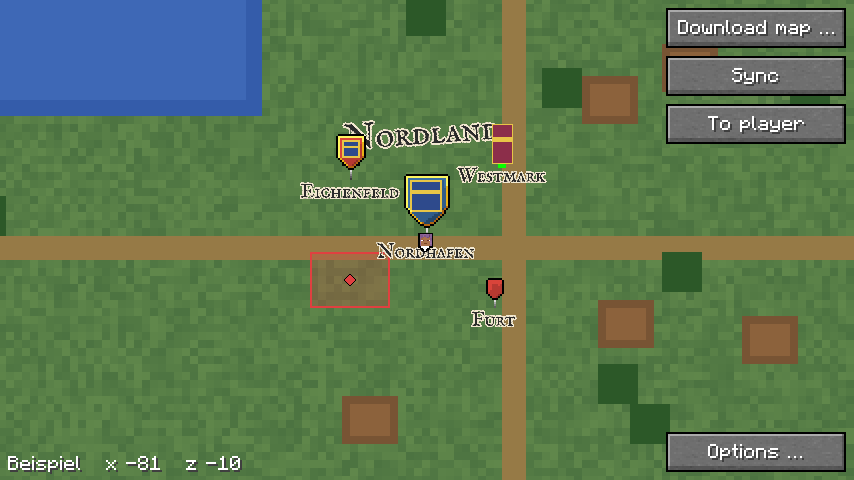
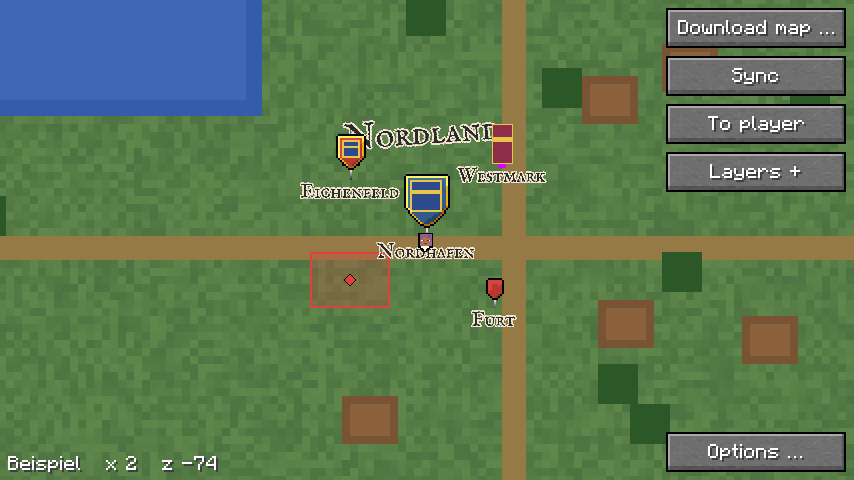
Doku, Bilder und 0.2.17 zur Liste der Ebenen (mod#76)

Changed region(s): [[0.7611, 0.3125, 1.0, 0.4062], [0.1522, 0.9375, 0.3044, 1.0]]

diff --git a/src/gametest/java/com/nekyia/heroicmap/Bilder.java b/src/gametest/java/com/nekyia/heroicmap/Bilder.java
@@ -500,7 +500,8 @@ public final class Bilder implements FabricClientGameTest {
         context.runOnClient(mc -> {
             Ebenen.INSTANZ.empfange(JsonParser.parseString("""
                     {"v":1,"typ":"ebenen","jetzt":1,"ebenen":[{"id":"test:formen","name":{"de":"Formen","en":"Shapes"},
-                      "visible":true,"order":1,"version":"1"}]}""").getAsJsonObject());
+                      "visible":true,"order":1,"version":"1"},{"id":"test:grenzen","name":{"de":"Grenzen","en":"Borders"},
+                      "visible":false,"order":2,"version":"1"}]}""").getAsJsonObject());
             Ebenen.Teil t = Ebenen.Teil.lies(FORMEN);
             if (t == null || t.formen().size() != 5) {
                 throw new AssertionError("Teil der Formen nicht lesbar");
@@ -537,6 +538,14 @@ public final class Bilder implements FabricClientGameTest {
         context.runOnClient(mc -> mc.gui.setScreen(new Karte(Satz.lies(baum))));
         context.waitTicks(40);
         Path karte = context.takeScreenshot(TestScreenshotOptions.of("formen-karte").disableCounterPrefix());
+        // Dieselbe Karte mit offener Liste der Ebenen: „Formen“ an und ganz angeheftet, „Grenzen“ aus (docs/vollbildkarte.md, „Ebenen“).
+        context.runOnClient(mc -> {
+            Kartenlage.ebenenOffen(Downloads.weltOrdner(), true);
+            mc.gui.setScreen(new Karte(Satz.lies(baum)));
+        });
+        context.waitTicks(40);
+        Path liste = context.takeScreenshot(TestScreenshotOptions.of("ebenen-liste").disableCounterPrefix());
+        context.runOnClient(mc -> Kartenlage.ebenenOffen(Downloads.weltOrdner(), false));
         if (!AUSGABE.isEmpty()) {
             BufferedImage beide = new BufferedImage(teile[0].getWidth() + teile[1].getWidth(),
                     Math.max(teile[0].getHeight(), teile[1].getHeight()), BufferedImage.TYPE_INT_RGB);
@@ -545,6 +554,7 @@ public final class Bilder implements FabricClientGameTest {
             try {
                 ImageIO.write(beide, "png", Path.of(AUSGABE, "formen.png").toFile());
                 Files.copy(karte, Path.of(AUSGABE, "formen-karte.png"), StandardCopyOption.REPLACE_EXISTING);
+                Files.copy(liste, Path.of(AUSGABE, "ebenen-liste.png"), StandardCopyOption.REPLACE_EXISTING);
             } catch (IOException e) {
                 throw new UncheckedIOException(e);
             }

diff --git a/docs/entwicklung.md b/docs/entwicklung.md
@@ -50,7 +50,7 @@ Das baut das Jar nach `build/libs/` und lässt die Tests laufen.
 | `AblageTest` | der Ordner der Welt je Wahl und je Dimension, Backends hinter einem Proxy, ein neuer Login ohne wartende `freigabe`n, gleiche Hashes, Umzug ins Leere ohne `overlay/`, die Kartenliste über alle Ablagen, unlesbare Ordner, Abbruch, Symlinks und Junctions, siehe [Download](download.md), „Ablage“ |
 | `KanalTest` | die `anfrage`, `neu` nur, wenn wahr, und `show`, siehe [Download](download.md), „Kanal“ |
 | `AdresseTest` | die Prüfung der Adresse, siehe [Download](download.md), „Sicherheit“ |
-| `KartenblickTest` | wie die Vollbildkarte Kacheln auf den Schirm legt, Zoom über Stufen und Lupe, Schieben, Platzhalter aus gröberen Stufen, siehe [Vollbildkarte](vollbildkarte.md); Lage merken je Dimension und geklemmt stellen, siehe [Vollbildkarte](vollbildkarte.md), „Lage merken“; Marken auf dem Raster der Kacheln und am Rand neben den Knöpfen, siehe [Wegpunkte](wegpunkte.md), „Am Rand“; Chunklinien auf dem Raster bis zum Rand und nicht zu dicht, auch bei GUI-Massstab 1 auf 4K, siehe [Minimap](minimap.md), „Chunklinien“ |
+| `KartenblickTest` | wie die Vollbildkarte Kacheln auf den Schirm legt, Zoom über Stufen und Lupe, Schieben, Platzhalter aus gröberen Stufen, siehe [Vollbildkarte](vollbildkarte.md); Lage merken je Dimension und geklemmt stellen, die offene Liste der Ebenen, siehe [Vollbildkarte](vollbildkarte.md), „Lage merken“; Marken auf dem Raster der Kacheln und am Rand neben den Knöpfen, siehe [Wegpunkte](wegpunkte.md), „Am Rand“; Chunklinien auf dem Raster bis zum Rand und nicht zu dicht, auch bei GUI-Massstab 1 auf 4K, siehe [Minimap](minimap.md), „Chunklinien“ |
 | `TeleportTest` | der Befehl zum Teleportieren und dass es ihn nur mit `execute` und `tp` im Befehlsbaum gibt, siehe [Vollbildkarte](vollbildkarte.md), „Teleportieren“ |
 | `DrehungTest` | wie die Minimap ihr Bild auf den Schirm bringt: Schnitt konvexer Vielecke, Vieleck um den Kreis, Rand mit und ohne Rahmen gedeckt, mit Abstand gegen das Einrasten, Umriss wie auf main, ungedreht auf dem Raster, Fächer, Chunklinien in der Form, siehe [Minimap](minimap.md), „Form“; Blickrichtung oben, Drehung und zurück, Marken auf der Mitte der Bänder und auf ganzen Pixeln, Reichweite √2, Wegpunkt in Blickrichtung, siehe [Minimap](minimap.md), „Drehen“; Formen am Ort der Marken, gedreht und ungedreht, und auf der Karte, siehe [Ebenen](ebenen.md), „Flächen, Kreise und Linien“ |
 | `KachelnTest` | WebP lesen, samt Alpha, die Grösse aus dem Kopf vor dem Dekodieren, genau so gross wie eine Kachel; die Grenzen der Banner prüft `SymboleTest`, siehe [Vollbildkarte](vollbildkarte.md), „Kacheln“; Pixel mit einem Index hinter der Palette durchsichtig, alle anderen wie TwelveMonkeys, siehe [Vollbildkarte](vollbildkarte.md), „Farbindex hinter der Palette“ |
@@ -69,7 +69,7 @@ Das baut das Jar nach `build/libs/` und lässt die Tests laufen.
 | `KachelwerkMessung` | nur mit `-Pkachelwerk=<datei>`: was `Kachelwerk.schreibe` kostet, siehe [Selbst gezeichnete Karte](selbst.md), „Kosten“ |
 | `PyramideTest` | Verkleinern wie die Pyramide des Renderers, siehe [Selbst gezeichnete Karte](selbst.md), „Pyramide“ |
 | `ChunkMalerTest` | dünne Flächen mindestens ein Pixel, der Deckel einer Truhe nach `facing` und Hälfte, siehe [Minimap](minimap.md), „Flächen und Pixel“ und „Blockentities“ |
-| `WegpunkteTest` | Wegpunkte setzen, löschen, anheften, Farben, kaputte Einträge und Dateien; feste ids, Formen aus Wegpunkten, die beim Verschieben mitgehen und beim Löschen schrumpfen; Formen, Rechtecke, Kreise, Nadeln und Banner anheften, je höchstens 64, tote Einträge, Listen für Karte und Minimap; siehe [Wegpunkte](wegpunkte.md) |
+| `WegpunkteTest` | Wegpunkte setzen, löschen, anheften, Farben, kaputte Einträge und Dateien; feste ids, Formen aus Wegpunkten, die beim Verschieben mitgehen und beim Löschen schrumpfen; Formen, Rechtecke, Kreise, Nadeln und Banner anheften, je höchstens 64, eine ganze Ebene anheften und lösen, tote Einträge, Listen für Karte und Minimap; siehe [Wegpunkte](wegpunkte.md) |
 | `LichtTest` | die Lightmap gegen die Werte aus der Doku des Renderers, siehe [Minimap](minimap.md), „Licht“ |
 
 ## Gametests
@@ -90,8 +90,8 @@ Mods laufen deshalb auch hier.
 | Gametest | tut |
 |---|---|
 | `Anmeldung` | die Reihenfolge beim Login: Beim ersten Level gibt es den Spieler noch nicht, wohl aber die Verbindung des Levels, aus der `Downloads.server` liest, siehe [Download](download.md), „Ablage“ |
-| `Bilder` | baut eine Szene und nimmt die Minimap auf, danach das Menü und die Vollbildkarte aus einem Testsatz mit zwei Wegpunkten, das Untermenü „Einstellungen …“, jeden Rahmen eckig und rund und das Menü mit Rahmen, die drehende Minimap, die Szene `formen` mit Flächen, Kreis, Linie und Kartenschrift, die Szene `orte` mit Nadeln, einem Banner und ihren Namen, gleich gross auf zwei Stufen der Vollbildkarte, und „Unicode-Schrift erzwingen“, das die Generation der Kartenschrift hebt, zuletzt die selbst gezeichnete Karte der Szene, gewählt über die Knöpfe, neben der Minimap, die als beschäftigt gilt, auch mit Chunklinien; mit `-Pbilder=<ordner>` landen die Bilder dort, siehe [Minimap](minimap.md), „Bilder“, und [Vollbildkarte](vollbildkarte.md), „Bild“ |
-| `Bedienung` | das Menü und die Vollbildkarte mit echten Eingaben der Maus (`TestInput`): im Menü verschiebt Ziehen mit der linken wie der rechten Taste die ganze Minimap; auf der Karte verschiebt links ziehen den Inhalt, ein Linksklick öffnet kein Menü, ein Rechtsklick öffnet „Hierher teleportieren“, ein Klick darauf teleportiert; Wegpunkte setzen, ziehen und klicken auf Marken am Rand, Doppelklick, Wegpunkt am eigenen Standort, einen Kreis und eine Nadel vom Server und ein altes Rechteck anheften; eine Region und eine Linie aus Wegpunkten bauen, die Region per Doppelklick anheften und löschen; Menü und Untermenü bei 1280 × 720 und GUI-Massstab 3; siehe [Minimap](minimap.md), „Bedienung“, [Vollbildkarte](vollbildkarte.md), „Bedienung“, und [Wegpunkte](wegpunkte.md), „Tests“ |
+| `Bilder` | baut eine Szene und nimmt die Minimap auf, danach das Menü und die Vollbildkarte aus einem Testsatz mit zwei Wegpunkten, das Untermenü „Einstellungen …“, jeden Rahmen eckig und rund und das Menü mit Rahmen, die drehende Minimap, die Szene `formen` mit Flächen, Kreis, Linie und Kartenschrift und der offenen Liste der Ebenen, die Szene `orte` mit Nadeln, einem Banner und ihren Namen, gleich gross auf zwei Stufen der Vollbildkarte, und „Unicode-Schrift erzwingen“, das die Generation der Kartenschrift hebt, zuletzt die selbst gezeichnete Karte der Szene, gewählt über die Knöpfe, neben der Minimap, die als beschäftigt gilt, auch mit Chunklinien; mit `-Pbilder=<ordner>` landen die Bilder dort, siehe [Minimap](minimap.md), „Bilder“, und [Vollbildkarte](vollbildkarte.md), „Bild“ |
+| `Bedienung` | das Menü und die Vollbildkarte mit echten Eingaben der Maus (`TestInput`): im Menü verschiebt Ziehen mit der linken wie der rechten Taste die ganze Minimap; auf der Karte verschiebt links ziehen den Inhalt, ein Linksklick öffnet kein Menü, ein Rechtsklick öffnet „Hierher teleportieren“, ein Klick darauf teleportiert; Wegpunkte setzen, ziehen und klicken auf Marken am Rand, Doppelklick, Wegpunkt am eigenen Standort, einen Kreis und eine Nadel vom Server und ein altes Rechteck anheften; eine Region und eine Linie aus Wegpunkten bauen, die Region per Doppelklick anheften und löschen; die Liste der Ebenen aufklappen, eine Ebene aus- und anschalten, per Doppelklick ganz anheften und lösen, zuklappen; Menü und Untermenü bei 1280 × 720 und GUI-Massstab 3; siehe [Minimap](minimap.md), „Bedienung“, [Vollbildkarte](vollbildkarte.md), „Bedienung“, und [Wegpunkte](wegpunkte.md), „Tests“ |
 | `Messung` | nur mit `-Pmessung=<datei>`: Zeit je Chunk und Frametime mit und ohne Minimap, siehe [Minimap](minimap.md), „Kosten“ |
 | `Server` | nur mit `-Pserver=<adresse>`: von Ende zu Ende gegen einen echten Paper-Server mit dem Plugin, Angebot, voller Download des kleinsten Massstabs des ersten Baums, jeder Dialog mit Ja, die Vollbildkarte als Bild `server-karte`; siehe unten |
 | `Uebernahme` | nur mit `-Puebernahme=<datei>`: was eine Kachel der Vollbildkarte den Render-Thread kostet, siehe [Vollbildkarte](vollbildkarte.md), „Kacheln“ |

diff --git a/docs/vollbildkarte.md b/docs/vollbildkarte.md
@@ -1,6 +1,6 @@
 ---
 title: Vollbildkarte
-description: Die Karte über den ganzen Schirm aus den geladenen Kacheln, mit Bedienung samt Menü nach Rechtsklick, welchem Satz sie zeigt, Stufen und Lupe, wie Kacheln gelesen und behalten werden, Spieler und Koordinaten, dem Bild aus dem Gametest und was fehlt.
+description: Die Karte über den ganzen Schirm aus den geladenen Kacheln, mit Bedienung samt Menü nach Rechtsklick, Liste der Ebenen mit Anheften der ganzen Ebene, welchem Satz sie zeigt, Stufen und Lupe, wie Kacheln gelesen und behalten werden, Spieler und Koordinaten, dem Bild aus dem Gametest und was fehlt.
 code:
   - src/main/java/com/nekyia/heroicmap/Karte.java
   - src/main/java/com/nekyia/heroicmap/Kartenblick.java
@@ -9,6 +9,7 @@ code:
   - src/main/java/com/nekyia/heroicmap/webp
   - src/main/java/com/nekyia/heroicmap/Satz.java
   - src/main/java/com/nekyia/heroicmap/Auswahl.java
+  - src/main/java/com/nekyia/heroicmap/EbenenMenue.java
   - src/main/java/com/nekyia/heroicmap/Teleport.java
   - src/test/java/com/nekyia/heroicmap/TeleportTest.java
   - src/test/java/com/nekyia/heroicmap/KartenblickTest.java
@@ -41,6 +42,8 @@ sagt sie das und zeigt nichts.
 | Knopf „Karte laden …“ | zeigt die Karten des Servers, je Baum der Name und darunter ein Knopf je Massstab mit seiner Grösse (`Auswahl`), darüber die Wahl „Selbst“, siehe [Selbst gezeichnete Karte](selbst.md); die Knöpfe teilen sich die Breite des Schirms, höchstens 90 Einheiten je Knopf, so passen sie auch bei grossem GUI-Massstab; den Massstab, den der Spieler schon ganz hat (`Downloads.vollstaendig`: ein vollständiger Satz, und das Plugin misst den Abgleich an demselben Massstab), zeigt der Knopf als „Abgleich“ und gleicht ab wie der Knopf „Abgleich“, nach einer Ablehnung mit `wieder` bis dahin aus; ein Klick fragt wie `/hmap laden` erst im Dialog nach |
 | Knopf „Abgleich“ | fragt einen Abgleich des gezeigten Satzes an, wie `/hmap abgleich`; nur mit einem Satz vom Server, nicht auf der selbst gezeichneten Karte. Lehnt der Server mit `wieder` ab, ist der Knopf bis dahin aus und nennt die Uhrzeit |
 | Knopf „Zum Spieler“ | legt den eigenen Spieler in die Mitte, für den Fall, dass man sich verirrt hat, wie auf der Webkarte; Stufe und Lupe bleiben (mod#75) |
+| Knopf „Ebenen +“ unter „Zum Spieler“ | klappt die Liste der Ebenen auf, „Ebenen -“ wieder zu; nur, wenn der Server Ebenen schickt, siehe „Ebenen“ (mod#76) |
+| Klick, Doppelklick auf einen Schalter der Liste | schaltet die Ebene an oder aus; ein Doppelklick lässt sie, wie sie war, und heftet alles von ihr an oder löst es, siehe „Ebenen“ |
 | Knopf „Optionen …“ unten rechts | öffnet das Menü von `/hmap`, siehe [Minimap](minimap.md), „Bedienung“; „Fertig“ und `Esc` führen von dort zurück auf die Karte, an dieselbe Stelle (mod#75) |
 | `Esc` | bricht zuerst eine Form ab, die der Spieler aus Wegpunkten baut, sonst schliesst es die Karte |
 
@@ -61,7 +64,9 @@ Server, Welt und Dimension, so will es der User (mod#75); vorher begann die
 Karte jedes Mal beim Spieler, und man musste wieder herauszoomen.
 
 - **Gemerkt** beim Schliessen und vor jedem Untermenü (`Karte.removed`): die
-  Mitte in Blöcken, die Stufe und die Lupe (`Kartenlage`).
+  Mitte in Blöcken, die Stufe und die Lupe (`Kartenlage`). Ob die Liste der
+  Ebenen offen ist, merkt sie gleich beim Klick, für alle Dimensionen, siehe
+  „Ebenen“.
 - **Je Welt** in `karte.properties` im Ordner der Welt, neben
   `wegpunkte.json`, siehe [Download](download.md), „Ablage“; die Schlüssel
   beginnen mit der Dimension des Satzes, etwa `minecraft:overworld.zoom`.
@@ -73,7 +78,47 @@ Karte jedes Mal beim Spieler, und man musste wieder herauszoomen.
   (`Kartenblick.stelle`). Fehlt die Datei oder ist sie unlesbar, liegt der
   Spieler in der Mitte.
 - **Getestet** im Gametest `Bedienung`: eine Stufe gröber, schliessen und
-  wieder öffnen, Mitte, Stufe und Lupe wie vorher; dazu `KartenblickTest`.
+  wieder öffnen, Mitte, Stufe und Lupe wie vorher; dazu `KartenblickTest`
+  mit `listeDerEbenenBleibtOffen`.
+
+### Ebenen
+
+Auf der Vollbildkarte ein Schalter je Ebene, wie „Ebenen“ auf der
+Webkarte, so will es der User (mod#76). Ein Doppelklick heftet die ganze
+Ebene an.
+
+![Vollbildkarte mit offener Liste der Ebenen: „Formen“ an und ganz angeheftet, mit dem bunten Punkt, „Grenzen“ aus; Szene `formen` des Gametests](bilder/ebenen-liste.png)
+
+- **Knopf „Ebenen +“** unter „Zum Spieler“, nur, wenn der Server Ebenen
+  schickt (`Karte.ebenen`). Er klappt die Liste auf, „Ebenen -“ klappt sie
+  zu. Beim ersten Öffnen ist sie zu; offen oder zu merkt sich die Karte in
+  `karte.properties` unter `ebenen`, siehe „Lage merken“
+  (`Kartenlage.ebenenOffen`).
+- **Liste:** je Ebene ein Schalter mit ihrem Namen in der Sprache des
+  Spiels und „An“ oder „Aus“, die oberste zuerst, wie im Untermenü „Ebenen
+  …“, siehe [Ebenen](ebenen.md), „Umschalten“; dieselbe Wahl. Die Liste
+  reicht bis über „Optionen …“; passen nicht alle, führt der letzte Knopf
+  „Weitere …“ zum Untermenü. Kommen andere Ebenen, während die Karte offen
+  ist, baut sie die Liste neu (`Karte.tick`).
+- **Klick** auf einen Schalter schaltet die Ebene an oder aus.
+- **Doppelklick:** Der erste Klick schaltet um, der zweite zurück; so
+  bleibt die Ebene, wie sie war. Dazu heftet der zweite alles von ihr an,
+  was sich anheften lässt, Flächen, Kreise, Nadeln und Banner mit `id`,
+  siehe [Wegpunkte](wegpunkte.md), „Anheften“; ist schon alles
+  angeheftet, löst er alles (`Wegpunkte.alleUmschalten`).
+- **Grenzen:** Die 64 Flächen und Kreise und die 64 Nadeln und Banner
+  gelten weiter. Was nicht mehr passt, bleibt los, und unten links steht
+  „3 nicht angeheftet: höchstens 64 Regionen und 64 Nadeln und Banner“.
+  Dann ist die Ebene nicht ganz angeheftet, und ein weiterer Doppelklick
+  löst nichts, sondern heftet wieder an, was passt. Lösen geht dann je
+  Objekt.
+- **Bunter Punkt** links am Schalter, wenn alles Anheftbare der Ebene
+  angeheftet ist, in der Farbe des Rings angehefteter Marken
+  (`Karte.BUNT_MS`); eine Ebene ohne etwas mit `id` bekommt keinen
+  (`Wegpunkte.ganzAngeheftet`). Neu gerechnet nur, wenn sich Ebenen oder
+  Wegpunkte ändern (`Ebenen.stand`, `Wegpunkte.stand`).
+- **Über einem Knopf** geht keine Tafel auf; die Knöpfe gehen der Karte
+  darunter vor.
 
 ### Teleportieren
 

diff --git a/docs/wegpunkte.md b/docs/wegpunkte.md
@@ -198,6 +198,9 @@ Welt kommen in eigenen PRs.
   anheften, was eine `id` hat; ohne `id` gibt es auch keine Tafel. Der
   erste Klick merkt sich die eigene Form unter der Maus
   (`Karte.letzteEigene`), wenn dort nichts vom Server liegt.
+- **Ganze Ebene:** Ein Doppelklick auf ihren Schalter in der Liste der
+  Vollbildkarte heftet alles von ihr an oder löst es, siehe
+  [Vollbildkarte](vollbildkarte.md), „Ebenen“ (mod#76).
 - **Höchstens 64** Formen, Rechtecke und Kreise je Welt, eigene und vom
   Server zusammen (`Wegpunkte.MAX_ANGEHEFTET`). Darüber heftet der Doppelklick
   nichts an, und unten links steht „Höchstens 64 Regionen angeheftet; erst
@@ -283,7 +286,8 @@ Welt kommen in eigenen PRs.
   Angeheftetes auf der Minimap, breiterer Rand auf der Karte) und
   `breiterOhneRandNimmtDieFuellung`. Zu Nadeln: `nadelnAnheftenUndBehalten`,
   `hoechstens64NadelnEigeneGrenze` und `nadelnAufDerMinimapNurAngeheftet`.
-  Zu Formen aus Wegpunkten: `festeIdsAuchAusAltenDateien`,
+  Zur ganzen Ebene: `ganzeEbeneAnheftenUndLoesen` und
+  `ganzeEbeneHaeltDieGrenzen`. Zu Formen aus Wegpunkten: `festeIdsAuchAusAltenDateien`,
   `formenAusWegpunktenGehenMitUndBleiben` und `formenGrenzenUndAlteDatei`.
 - `MinimapTest`: `kopfWaechstMitDerSeite`, `amRandInSeinerRichtung` und
   `markeAufDemPixelDerKarte`.

diff --git a/CHANGELOG.md b/CHANGELOG.md
@@ -4,6 +4,11 @@ What changed in the Heroic Map mod, one section per version, newest first.
 The release notes on GitHub and Modrinth come from here
 (`.github/notizen.sh`); write them in English.
 
+## 0.2.17
+
+- **Layers on the full map:** a "Layers" button opens a list with a switch per layer from the server; the list stays open or closed as you left it.
+- **Double-click a layer** to pin everything in it to the minimap, or unpin it all; a colourful dot marks fully pinned layers. The limits of 64 still apply, and the map says what did not fit.
+
 ## 0.2.16
 
 - **Your own lines and regions from waypoints,** instead of "Region from here": right-click a waypoint, "Add point", then left-click more waypoints. Click the first one again to close a region, or choose "Finish shape" for a line. Moving a waypoint moves its shapes; deleting it takes it out of them.

diff --git a/docs/ebenen.md b/docs/ebenen.md
@@ -520,6 +520,9 @@ hat. Auf der Minimap gibt es keine Tafel, wie im Format.
   Schalter mit ihrem Namen in der Sprache des Spiels, die oberste zuerst.
   Passen nicht alle auf den Schirm, blättern `<` und `>`. Ohne Ebenen
   steht dort „Der Server schickt keine Ebenen.“
+- **Auf der Vollbildkarte** dieselbe Wahl in einer Liste unter dem Knopf
+  „Ebenen +“; ein Doppelklick heftet dort die ganze Ebene an, siehe
+  [Vollbildkarte](vollbildkarte.md), „Ebenen“ (mod#76).
 - **Vorgabe** ist `visible` der Ebene; die Wahl des Spielers geht vor.
 - **Gespeichert** gleich beim Umschalten, in `ebenen.properties` im Ordner
   der Welt neben `wegpunkte.json`, je Kennung `an` oder `aus` als `true`

diff --git a/docs/minimap.md b/docs/minimap.md
@@ -657,7 +657,8 @@ ein Feld. Gras, Blumen und Weizen stehen senkrecht und fehlen von oben.
 
 Danach die Ebenen (siehe [ebenen.md](ebenen.md)): Flächen, Kreis, Linie und
 Kartenschrift, der Kreis und eine eigene Region aus drei Wegpunkten angeheftet (`formen.png`,
-`formen-karte.png`), dann Nadeln in drei
+`formen-karte.png`), dieselbe Karte mit offener Liste der Ebenen
+(`ebenen-liste.png`), dann Nadeln in drei
 Grössen, ein Banner und ihre Namen, dazu ein altes Rechteck; die Minimap
 ohne Angeheftetes, mit angehefteter Nadel und angeheftetem Banner und nah am
 Banner (`orte.png`), die Vollbildkarte (`orte-karte.png`), auf
